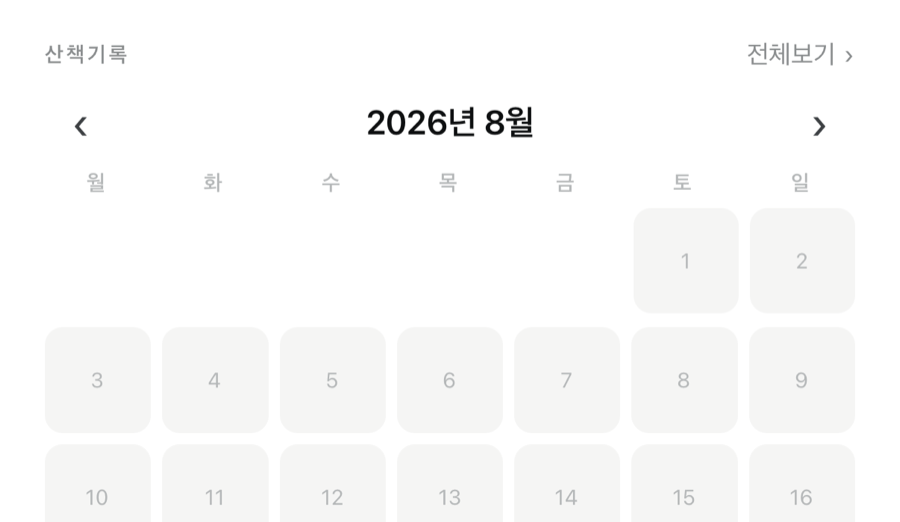
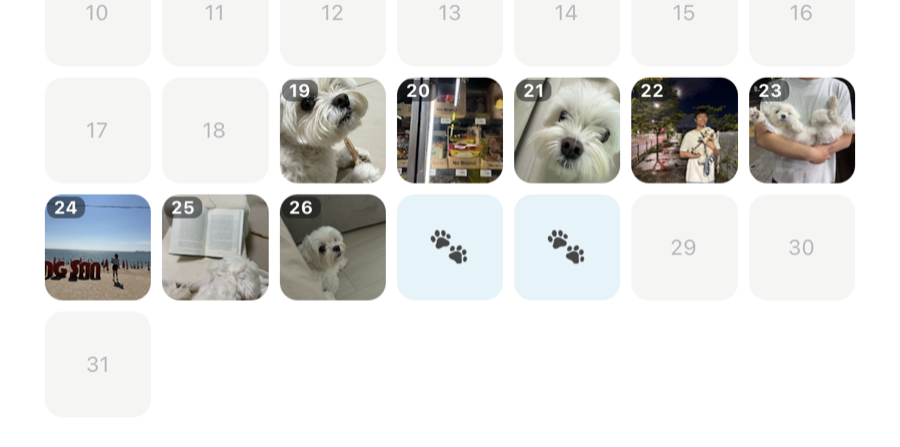
Refine walk records and add Instagram link

diff --git a/index.html b/index.html
@@ -37,8 +37,8 @@
     .story-photo{overflow:hidden;background:#eef9fc}.story-photo img{display:block;width:100%;height:100%;object-fit:cover;object-position:center}
     .download-card.photo-layout{display:grid;grid-template-columns:minmax(0,1fr) minmax(260px,340px);gap:48px;align-items:center}
     .download-copy{position:relative;z-index:2}.download-card.photo-layout h2,.download-card.photo-layout p{position:static}
-    .download-photo{position:relative;z-index:2;display:block;width:100%;height:330px;object-fit:cover;object-position:center 48%;border:8px solid rgba(255,255,255,.2);border-radius:28px;box-shadow:0 24px 60px rgba(20,40,61,.2);transform:rotate(2deg)}
-    @media(max-width:700px){.download-card.photo-layout{grid-template-columns:1fr;gap:34px}.download-photo{height:280px;transform:none}}
+    .instagram-photo{position:relative;z-index:2;display:block;border-radius:28px;box-shadow:0 24px 60px rgba(20,40,61,.2);transform:rotate(2deg);transition:transform .25s ease,box-shadow .25s ease}.instagram-photo:hover{transform:rotate(1deg) translateY(-4px);box-shadow:0 30px 70px rgba(20,40,61,.28)}.download-photo{display:block;width:100%;height:330px;object-fit:cover;object-position:center 48%;border:8px solid rgba(255,255,255,.2);border-radius:28px}.instagram-badge{position:absolute;right:18px;bottom:18px;padding:10px 14px;border:1px solid rgba(255,255,255,.35);border-radius:999px;color:white;background:rgba(20,40,61,.78);backdrop-filter:blur(10px);font-size:12px;font-weight:850;letter-spacing:-.01em}.instagram-photo:focus-visible{outline:3px solid white;outline-offset:5px}
+    @media(max-width:700px){.download-card.photo-layout{grid-template-columns:1fr;gap:34px}.instagram-photo{transform:none}.instagram-photo:hover{transform:translateY(-3px)}.download-photo{height:280px}}
   </style>
 </head>
 <body>
@@ -50,7 +50,7 @@
 
     <section class="section" id="walk"><div class="wrap"><div class="section-head reveal"><div class="kicker">THREE REASONS TO WALK</div><div><h2>오늘의 산책이<br>더 오래 남는 방법.</h2><p class="section-lead">우쥬산책은 매일 걷는 시간을 세 가지 가치로 바꿉니다.</p></div></div><div class="story"><article class="story-card reveal" id="memories"><span class="story-num">01 · REMEMBER</span><h3>산책했던 좋은 순간들, 기억하고 있나요?</h3><p>시간과 거리, 걸어온 길과 사진을 함께 남겨보세요. 평범했던 오늘의 산책이 오래 꺼내보는 추억이 됩니다.</p><div class="story-visual story-photo"><img src="public/walk-record.png" alt="우쥬산책 산책 기록 달력 화면"></div></article><article class="story-card reveal" id="marking"><span class="story-num">02 · NETWORK</span><h3>마킹은 강아지들의 네트워크니까.</h3><p>내 강아지는 누구와 네트워킹하고 있을까요? 같은 경로를 지나간 친구들을 만나보세요.</p><div class="story-visual network-list"><div class="report-row"><span class="network-avatar">🐕</span><div class="network-info"><b>초코</b><span>오늘 아침에 만났어요</span></div></div><div class="report-row"><span class="network-avatar">🐩</span><div class="network-info"><b>두부</b><span>어제 만났어요</span></div></div><div class="report-row"><span class="network-avatar">🦮</span><div class="network-info"><b>몽이</b><span>3일 전에 만났어요</span></div></div></div></article><article class="story-card reveal" id="lost"><span class="story-num">03 · FIND</span><h3>만약, 내 강아지를 분실했다면.</h3><p>미리 등록한 정보에 마지막 위치와 시간만 더해 주변 사람들에게 빠르게 알려보세요.</p><div class="story-visual notice-visual"><div class="notice-bubble"><b>주변에 분실 알림을 보냈어요</b>성산동 · 반경 3km · 목격 제보 받기</div></div></article></div></div></section>
 
-    <section class="download" id="download"><div class="wrap"><div class="download-card photo-layout reveal"><div class="download-copy"><h2>오늘도 우리 강아지와<br>같이 산책할래?</h2><p>우쥬산책은 “Would you 산책?”처럼 매일 먼저 산책을 건네는 앱입니다. 좋았던 순간부터 같은 길을 걷는 친구, 필요한 순간의 빠른 알림까지 함께합니다.</p><button class="store open-modal"><span class="store-icon">●</span><span><small>우쥬산책</small><b>출시 알림 받기</b></span></button></div><img class="download-photo" src="public/walk-together.png" alt="잔디밭을 산책하는 흰 강아지"></div></div></section>
+    <section class="download" id="download"><div class="wrap"><div class="download-card photo-layout reveal"><div class="download-copy"><h2>오늘도 우리 강아지와<br>같이 산책할래?</h2><p>우쥬산책은 “Would you 산책?”처럼 매일 먼저 산책을 건네는 앱입니다. 좋았던 순간부터 같은 길을 걷는 친구, 필요한 순간의 빠른 알림까지 함께합니다.</p><button class="store open-modal"><span class="store-icon">●</span><span><small>우쥬산책</small><b>출시 알림 받기</b></span></button></div><a class="instagram-photo" href="https://www.instagram.com/oh_dangdang" target="_blank" rel="noopener noreferrer" aria-label="오당당 인스타그램 새 탭에서 보기"><img class="download-photo" src="public/walk-together.png" alt="잔디밭을 산책하는 흰 강아지"><span class="instagram-badge">Instagram에서 보기 ↗</span></a></div></div></section>
   </main>
   <footer><div class="wrap footer-in"><span>© 2026 우쥬산책. Remember · Connect · Find.</span><div class="footer-links"><a href="terms.html">이용약관</a><a href="privacy.html">개인정보처리방침</a></div></div></footer>
 
